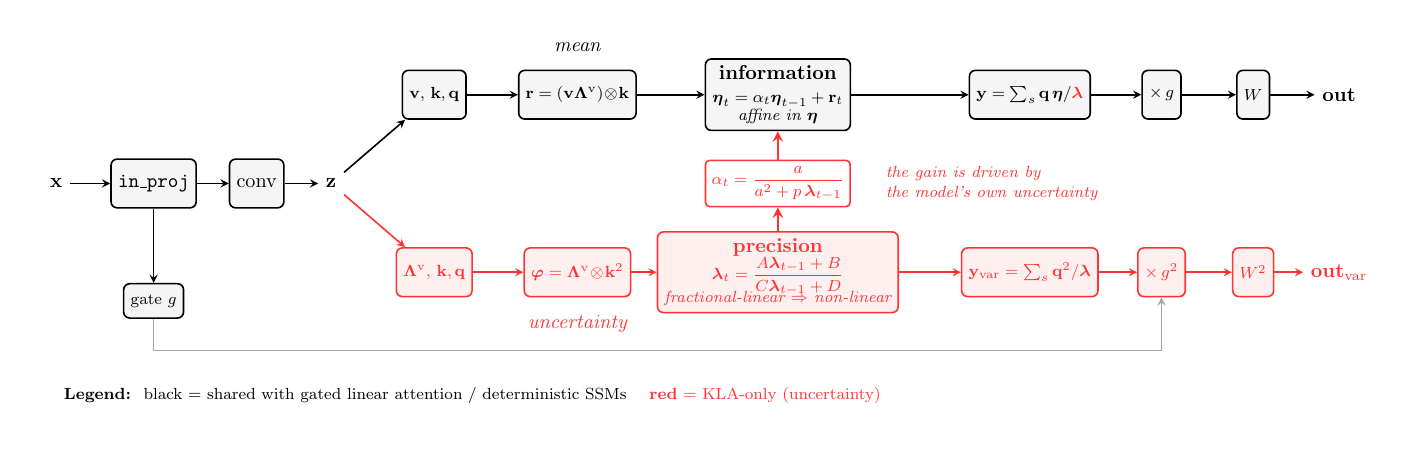
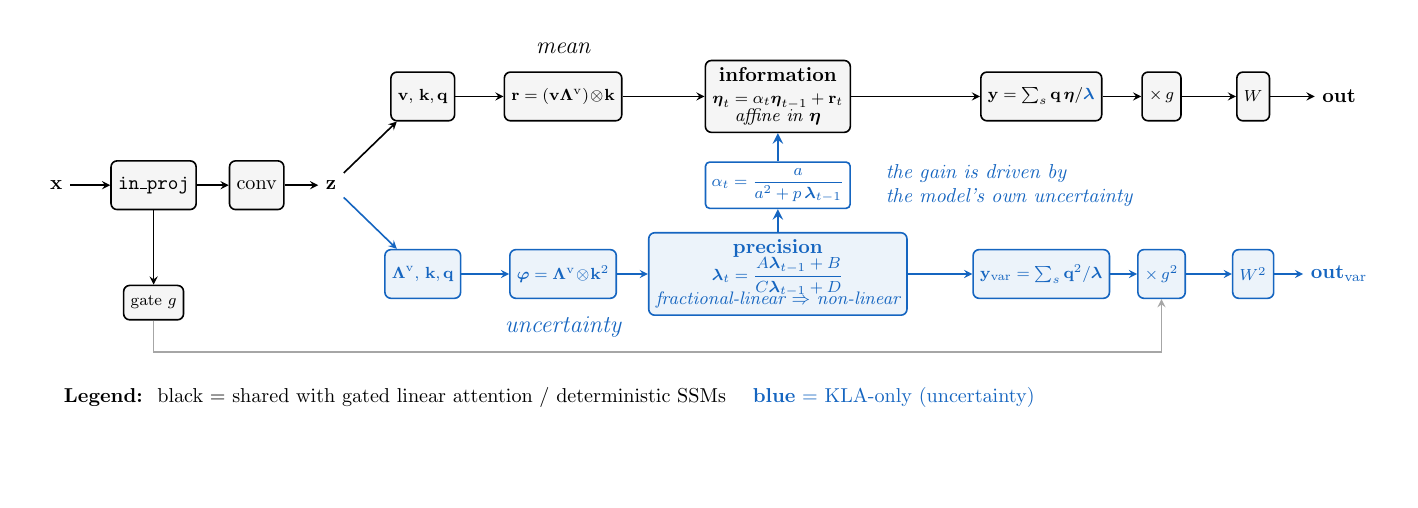
docs: blue uncertainty stream, larger annotations
Respaced the columns feeding the recurrences so the arrows keep their run
after the bigger in-box italics.

diff --git a/docs/kla_block.tex b/docs/kla_block.tex
@@ -3,10 +3,12 @@
 %   mv kla_block-1.png kla_block.png
 % The same macro (\tikzKLABlock) is the block figure in the paper.
 \documentclass[11pt]{article}
-\usepackage[margin=0.6cm,paperwidth=24cm,paperheight=7.8cm]{geometry}
+\usepackage[margin=0.6cm,paperwidth=24cm,paperheight=8.6cm]{geometry}
 \usepackage{tikz}
 \usepackage{amsmath}
 \usepackage{amssymb}
+% The uncertainty stream's colour, used for every element of it.
+\definecolor{uncol}{RGB}{21,101,192}
 \usetikzlibrary{positioning,arrows.meta,calc,decorations.pathmorphing,fit,backgrounds}
 \pagestyle{empty}
 
@@ -16,11 +18,11 @@
     x=1cm, y=1cm,
     shd/.style={draw, thick, rounded corners=3pt, fill=gray!8, align=center,
                 font=\small, minimum height=0.85cm, inner sep=3.5pt},
-    unc/.style={draw=red!80, thick, rounded corners=3pt, fill=red!6, align=center,
-                font=\small, text=red!80, minimum height=0.85cm, inner sep=3.5pt},
+    unc/.style={draw=uncol, thick, rounded corners=3pt, fill=uncol!8, align=center,
+                font=\small, text=uncol, minimum height=0.85cm, inner sep=3.5pt},
     io/.style={align=center, font=\small},
     ar/.style={->, thick, >=stealth},
-    arr/.style={->, thick, >=stealth, draw=red!80},
+    arr/.style={->, thick, >=stealth, draw=uncol},
 ]
 \def\yb{0}      % mean lane
 \def\yr{-3.1}   % uncertainty lane
@@ -35,17 +37,17 @@
 \draw[ar] (inp.south) -- (gt.north);
 
 % ================================================ sensors
-\node[shd, font=\scriptsize] (sm) at (6.6,\yb)
+\node[shd, font=\scriptsize] (sm) at (6.4,\yb)
      {$\mathbf{v},\,\mathbf{k},\mathbf{q}$};
-\node[unc, font=\scriptsize] (su) at (6.6,\yr)
+\node[unc, font=\scriptsize] (su) at (6.4,\yr)
      {$\boldsymbol{\Lambda}^{\mathrm v},\,\mathbf{k},\mathbf{q}$};
 \draw[ar]  (z) -- (sm);
 \draw[arr] (z) -- (su);
 
 % ================================================ sufficient statistics
-\node[shd, font=\scriptsize] (r)   at (9.1,\yb)
+\node[shd, font=\scriptsize] (r)   at (8.85,\yb)
      {$\mathbf{r}=(\mathbf{v}\boldsymbol{\Lambda}^{\mathrm v})\!\otimes\!\mathbf{k}$};
-\node[unc, font=\scriptsize] (phi) at (9.1,\yr)
+\node[unc, font=\scriptsize] (phi) at (8.85,\yr)
      {$\boldsymbol{\varphi}=\boldsymbol{\Lambda}^{\mathrm v}\!\otimes\!\mathbf{k}^{2}$};
 \draw[ar]  (sm)  -- (r);
 \draw[arr] (su)  -- (phi);
@@ -53,27 +55,27 @@
 % ================================================ the two recurrences
 \node[shd] (eta) at (12.6,\yb) {\textbf{information}\\[-1pt]
      {\scriptsize$\boldsymbol{\eta}_t=\alpha_t\boldsymbol{\eta}_{t-1}+\mathbf{r}_t$}\\[-3pt]
-     {\scriptsize\itshape affine in $\boldsymbol{\eta}$}};
+     {\footnotesize\itshape affine in $\boldsymbol{\eta}$}};
 \node[unc] (lam) at (12.6,\yr) {\textbf{precision}\\[-1pt]
      {\scriptsize$\boldsymbol{\lambda}_t=\dfrac{A\boldsymbol{\lambda}_{t-1}+B}
                                             {C\boldsymbol{\lambda}_{t-1}+D}$}\\[-3pt]
-     {\scriptsize\itshape fractional-linear $\Rightarrow$ non-linear}};
+     {\footnotesize\itshape fractional-linear $\Rightarrow$ non-linear}};
 \draw[ar]  (r)   -- (eta);
 \draw[arr] (phi) -- (lam);
 
 % ==== THE coupling: the Kalman gain is a function of the model's own uncertainty
-\node[draw=red!80, thick, rounded corners=2pt, fill=white, font=\scriptsize,
-      text=red!80, align=center, inner sep=3pt] (gain) at (12.6,{(\yb+\yr)/2})
+\node[draw=uncol, thick, rounded corners=2pt, fill=white, font=\scriptsize,
+      text=uncol, align=center, inner sep=3pt] (gain) at (12.6,{(\yb+\yr)/2})
      {$\alpha_t=\dfrac{a}{a^{2}+p\,\boldsymbol{\lambda}_{t-1}}$};
 \draw[arr, line width=1.3pt] (lam.north) -- (gain.south);
 \draw[arr, line width=1.3pt] (gain.north) -- (eta.south);
-\node[font=\scriptsize\itshape, text=red!80, anchor=west, align=left]
+\node[font=\small\itshape, text=uncol, anchor=west, align=left]
       at (14.35,{(\yb+\yr)/2}) {the gain is driven by\\the model's own uncertainty};
 
 % ================================================ read-out
-\node[shd, font=\scriptsize] (y)  at (17.0,\yb)
-     {$\mathbf{y}=\sum_s\mathbf{q}\,\boldsymbol{\eta}/{\color{red!80}\boldsymbol{\lambda}}$};
-\node[unc, font=\scriptsize] (yv) at (17.0,\yr)
+\node[shd, font=\scriptsize] (y)  at (17.2,\yb)
+     {$\mathbf{y}=\sum_s\mathbf{q}\,\boldsymbol{\eta}/{\color{uncol}\boldsymbol{\lambda}}$};
+\node[unc, font=\scriptsize] (yv) at (17.2,\yr)
      {$\mathbf{y}_{\mathrm{var}}=\sum_s\mathbf{q}^{2}/\boldsymbol{\lambda}$};
 \draw[ar]  (eta) -- (y);
 \draw[arr] (lam) -- (yv);
@@ -91,16 +93,16 @@
 \draw[arr] (gyv) -- (wyv);
 
 \node[io] (out)  at (22.4,\yb) {$\mathbf{out}$};
-\node[io, text=red!80] (outv) at (22.4,\yr) {$\mathbf{out}_{\mathrm{var}}$};
+\node[io, text=uncol] (outv) at (22.4,\yr) {$\mathbf{out}_{\mathrm{var}}$};
 \draw[ar]  (wy)  -- (out);
 \draw[arr] (wyv) -- (outv);
 
 % ================================================ lane labels + legend
-\node[font=\small\itshape, anchor=south] at (9.1,{\yb+0.62}) {mean};
-\node[font=\small\itshape, text=red!80, anchor=north] at (9.1,{\yr-0.62}) {uncertainty};
-\node[font=\scriptsize, anchor=west] at (0,{\yr-2.15})
+\node[font=\large\itshape, anchor=south] at (8.85,{\yb+0.62}) {mean};
+\node[font=\large\itshape, text=uncol, anchor=north] at (8.85,{\yr-0.62}) {uncertainty};
+\node[font=\small, anchor=west] at (0,{\yr-2.15})
      {\textbf{Legend:}\; black = shared with gated linear attention / deterministic SSMs \quad
-      {\color{red!80}\textbf{red} = KLA-only (uncertainty)}};
+      {\color{uncol}\textbf{blue} = KLA-only (uncertainty)}};
 \end{tikzpicture}
 }
 

diff --git a/readme.md b/readme.md
@@ -25,9 +25,9 @@ Drop it in wherever you would put attention or a Mamba block.
 
 The outer shell (grey) is the scaffolding every gated linear attention /
 deterministic SSM block already has, so it is a drop-in replacement. Inside, the
-**red stream is the one no other linear mixer has**. It is not a
+**blue stream is the one no other linear mixer has**. It is not a
 side-channel: the Kalman gain `alpha_t` is a function of the model's own current
-uncertainty, so the red stream feeds back into the mean, and it is carried all
+uncertainty, so the blue stream feeds back into the mean, and it is carried all
 the way to the output through the squared gate and squared output weights. That
 is what "uncertainty propagated through the recurrence" means, concretely.
 
